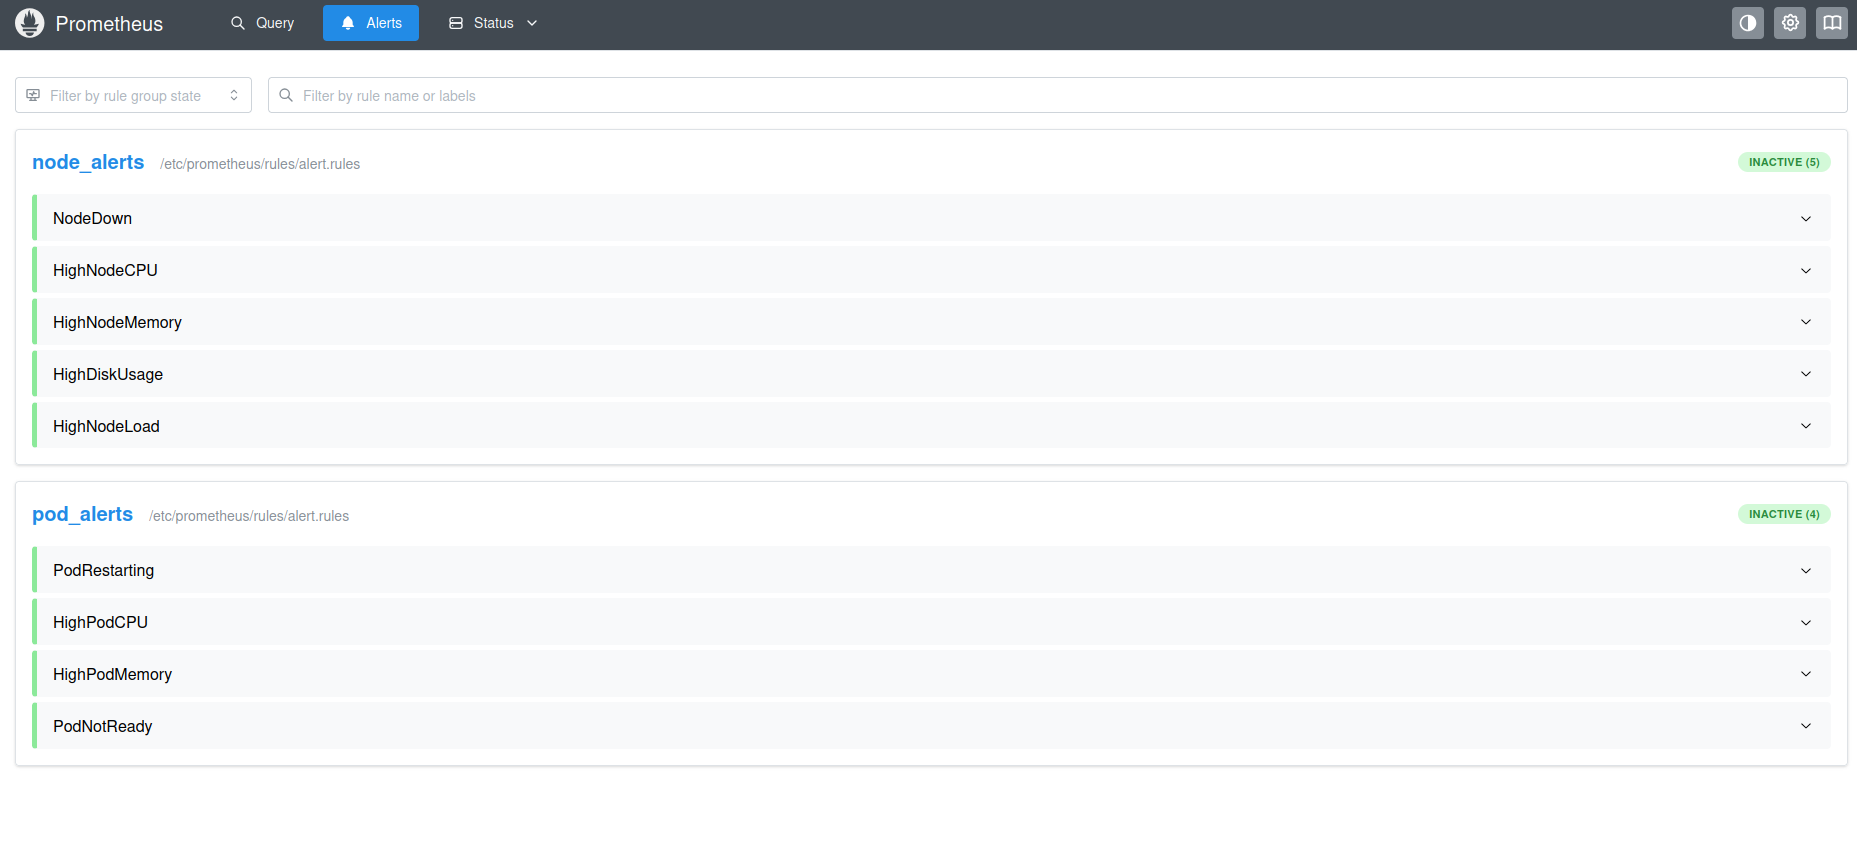
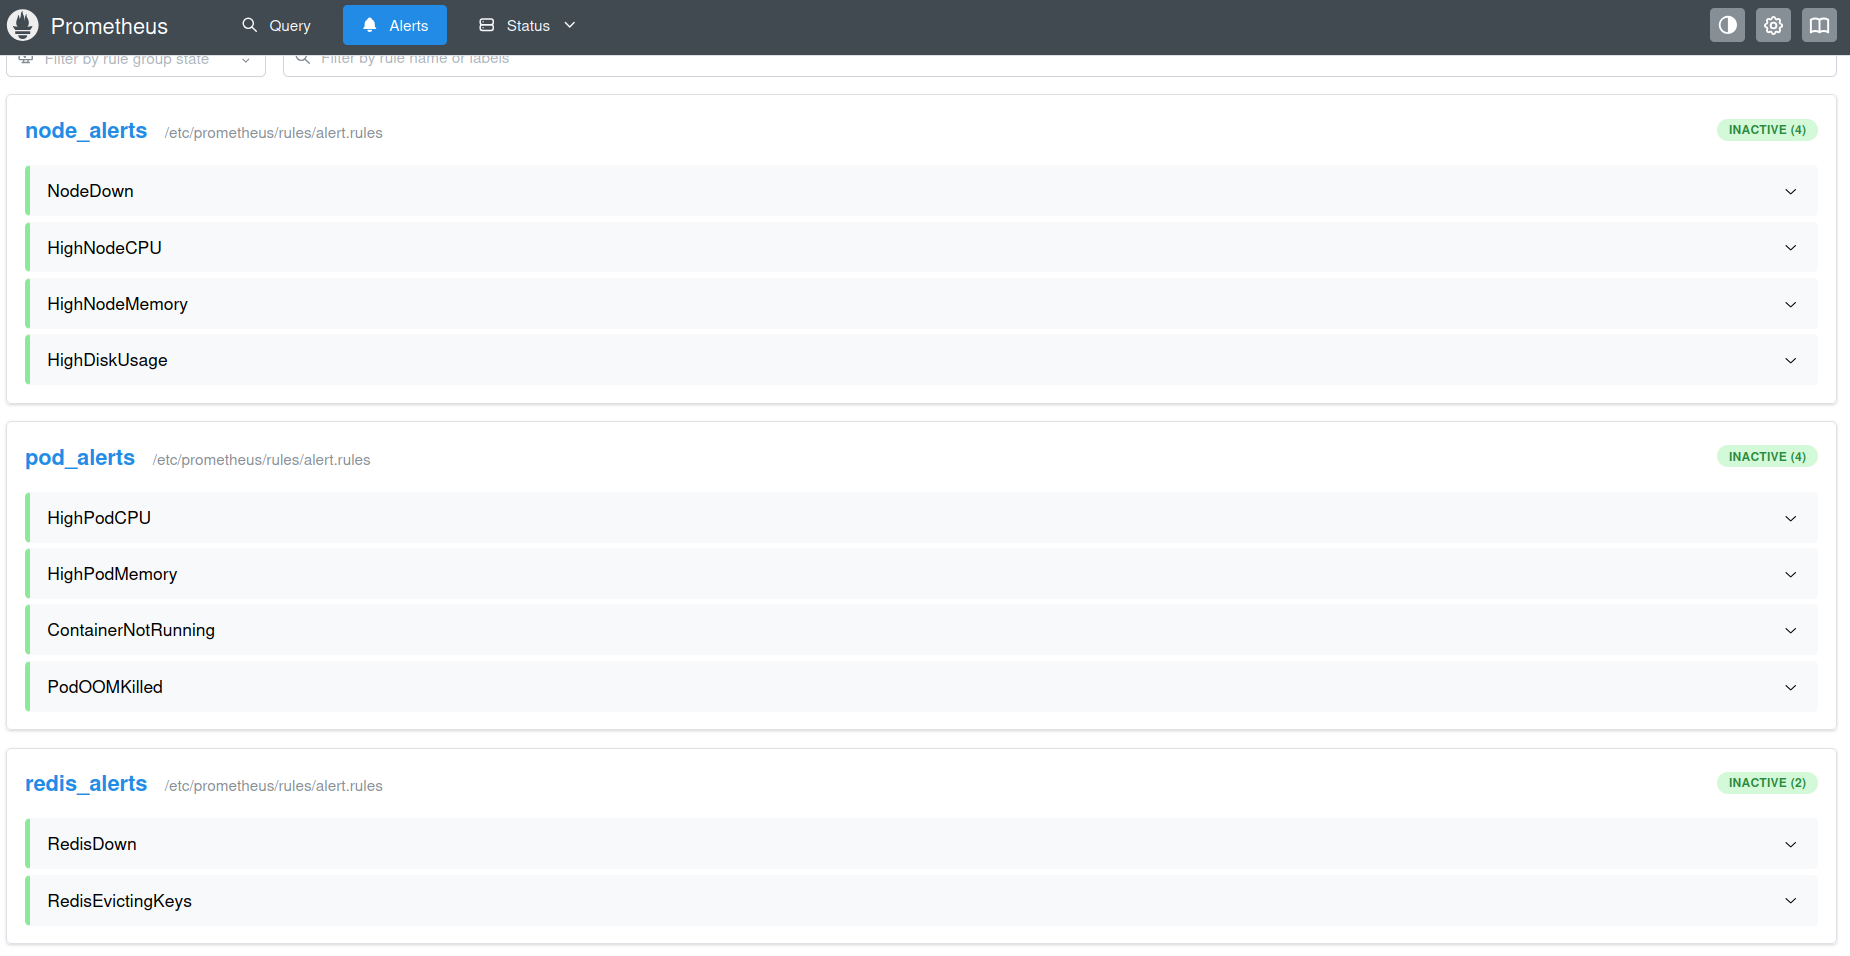
fix: update report with new alerts

diff --git a/report/README.md b/report/README.md
@@ -484,25 +484,19 @@ To raise alerts with Prometheus, we had to configure [alerting rules](https://pr
 - HighNodeCPU: when CPU usage is above 80%
 - HighNodeMemory: when memory usage is above 85%
 - HighDiskUsage: when disk usage is above 85%
-- HighNodeLoad: when load average is high
 
-
-- PodRestarting: when pods restart frequently
 - HighPodCPU: when pod CPU usage is above 80%
 - HighPodMemory: when pod memory usage is above 85%
-- PodNotReady: when pods aren't in Running/Succeeded state
+- ContainerNotRunning: when container has no memory usage, indicating it may be down
+- PodOOMKilled: when a pod is close to out of memory error and might be killed.
 
-- RedisDown
-- RedisMemoryHigh
-- RedisEvictingKeys
+- RedisDown: when Redis is not reachable.
+- RedisEvictingKeys: when Redis is deleting data to make space.
 
 We could see the active alerts by accessing `http://localhost:9090/alerts`.
 
 ![Alerts](./images/prometheus_alerts.png)
 
-We ran the load generator script and we were able to trigger the RedisMemoryHigh alert:
-
-![RedisMemoryHigh](./images/redis_alert.png)
 
 In order to receive notifications from these alerts, we had to configure [Alertmanager](https://prometheus.io/docs/alerting/latest/alertmanager/). We read the instructions on how to do it, but due to lack of time we decided to prioritize other tasks.
 
